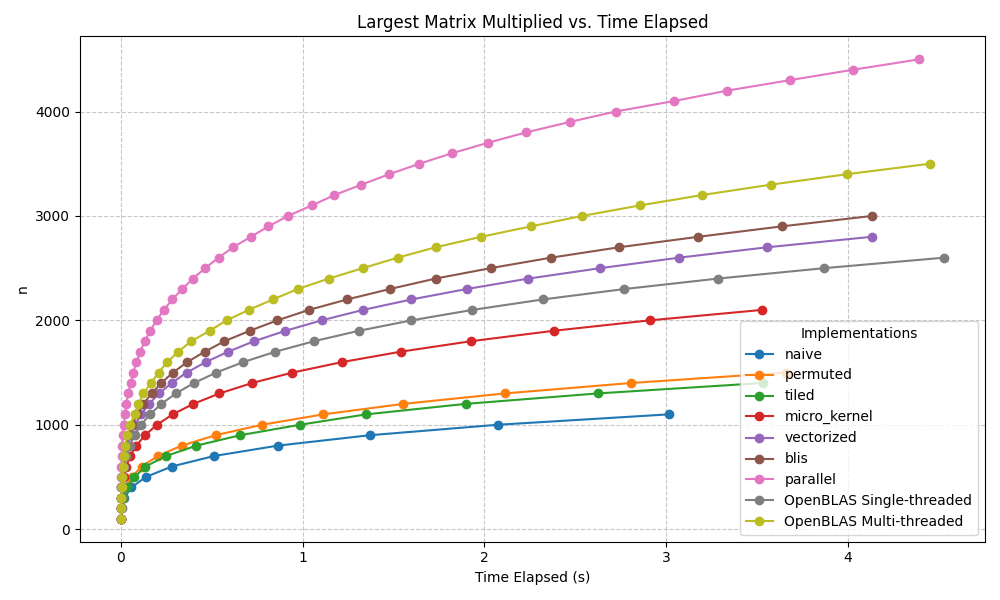
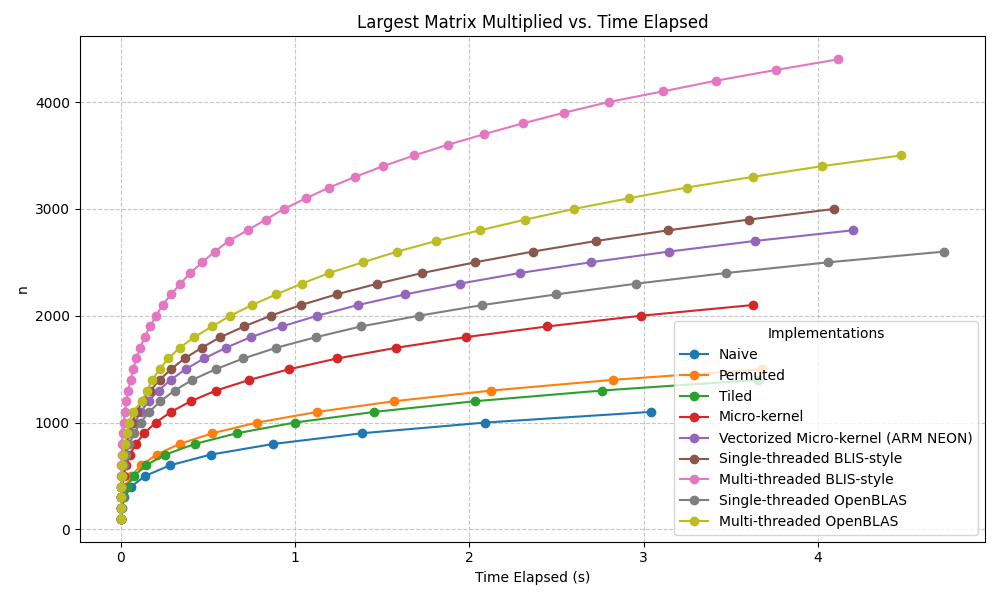
better evaluations

diff --git a/scripts/driver.py b/scripts/driver.py
@@ -17,6 +17,15 @@ IMPLEMENTATIONS = [
   'blis',
   'parallel'
 ]
+IMPLEMENTATION_LABELS = {
+  'naive': 'Naive',
+  'permuted': 'Permuted',
+  'tiled': 'Tiled',
+  'micro_kernel': 'Micro-kernel',
+  'vectorized': 'Vectorized Micro-kernel (ARM NEON)',
+  'blis': 'Single-threaded BLIS-style',
+  'parallel': 'Multi-threaded BLIS-style'
+}
 
 
 def benchmark(make_command, shell=False):
@@ -54,12 +63,12 @@ for implementation in tqdm(IMPLEMENTATIONS):
     lambda n, impl=implementation: [BENCH_PATH, impl, str(n), '1']
   )
 
-implementation_lines['OpenBLAS Single-threaded'] = benchmark(
+implementation_lines['Single-threaded OpenBLAS'] = benchmark(
   lambda n: f'OPENBLAS_NUM_THREADS=1 python scripts/openblas.py -n {n}',
   shell=True,
 )
 
-implementation_lines['OpenBLAS Multi-threaded'] = benchmark(
+implementation_lines['Multi-threaded OpenBLAS'] = benchmark(
   lambda n: f'python scripts/openblas.py -n {n}',
   shell=True,
 )
@@ -67,7 +76,8 @@ implementation_lines['OpenBLAS Multi-threaded'] = benchmark(
 plt.figure(figsize=(10, 6))
 
 for implementation, coords in implementation_lines.items():
-  plt.plot(coords['x'], coords['y'], marker='o', linestyle='-', label=implementation)
+  plt.plot(coords['x'], coords['y'], marker='o', 
+           linestyle='-', label=IMPLEMENTATION_LABELS.get(implementation, implementation))
 
 plt.xlabel('Time Elapsed (s)')
 plt.ylabel('n')